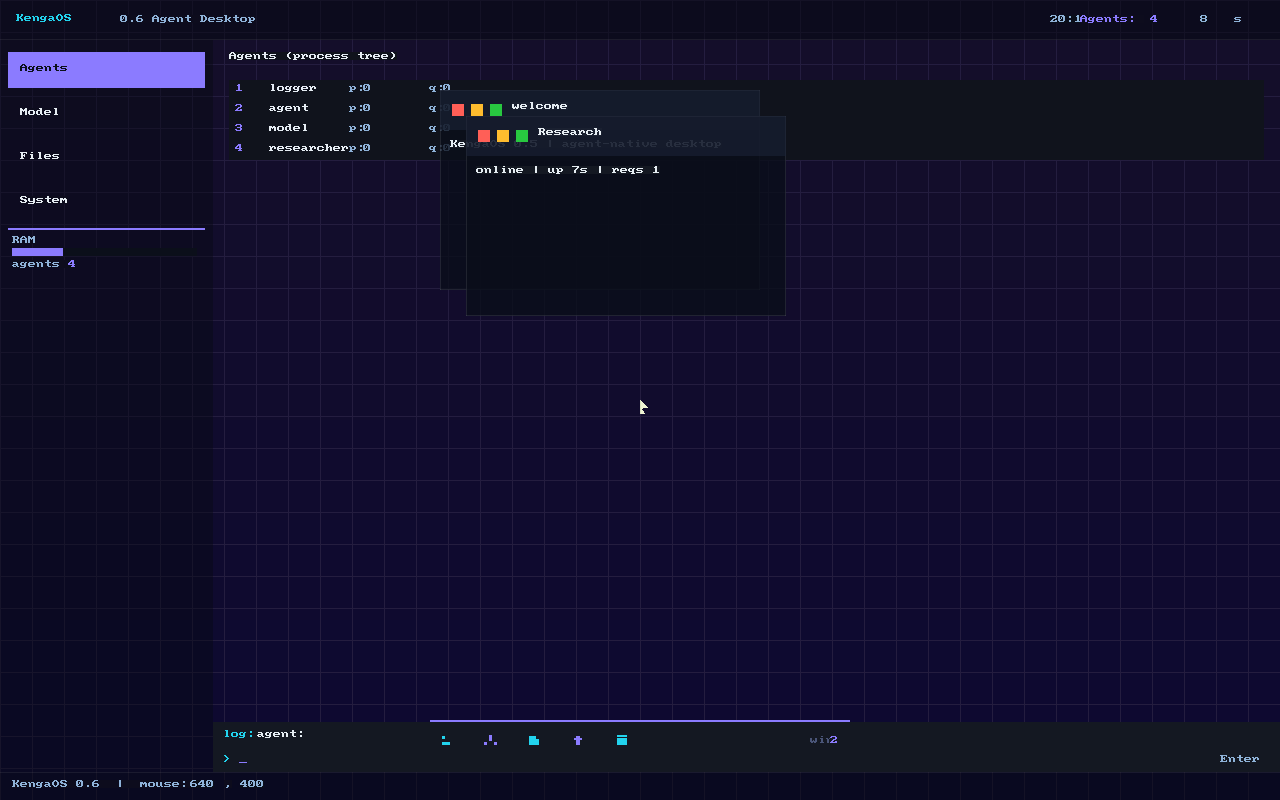
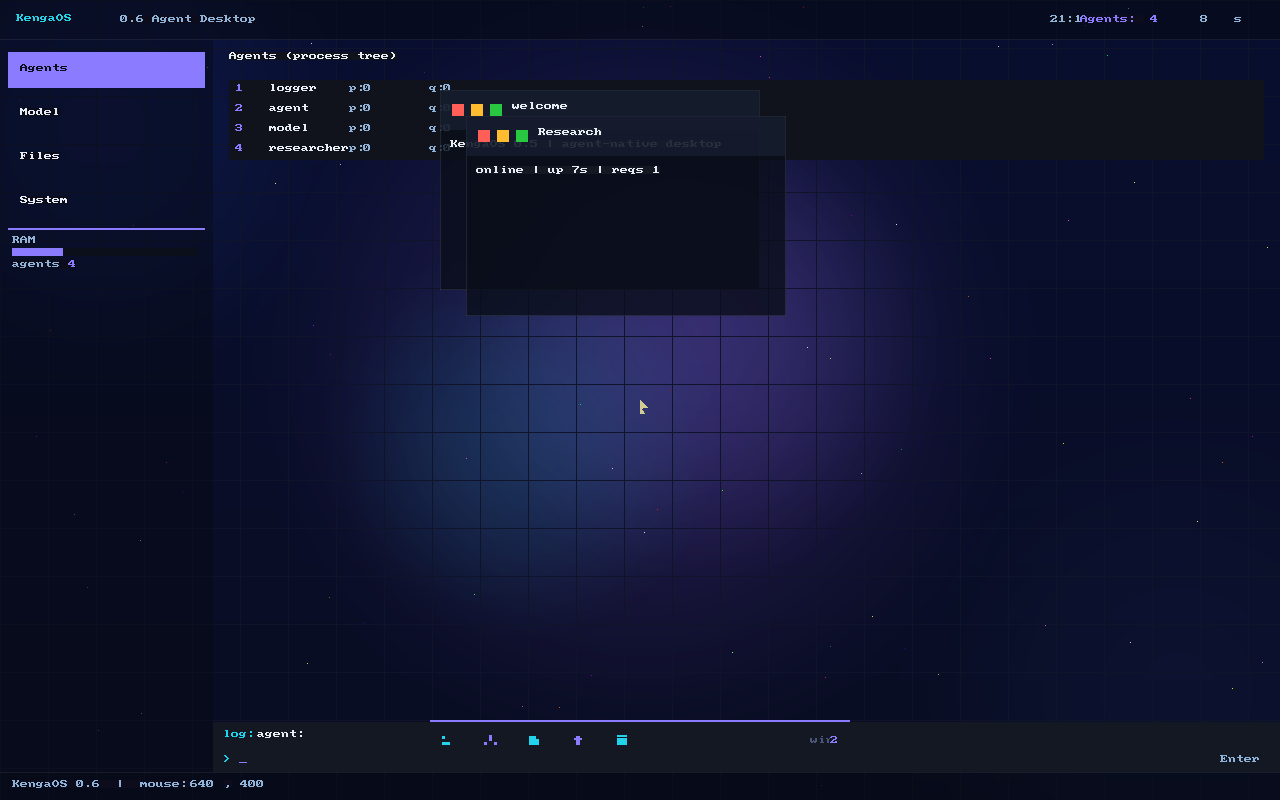
ui: nebula wallpaper (fb_glow), window shadows and focused glow border

Changed region(s): [[0.3125, 0.1875, 0.6875, 0.6875]]

diff --git a/kernel/kf_fb.c b/kernel/kf_fb.c
@@ -208,6 +208,43 @@ static int64_t dsqrti(int64_t n) {
     return x;
 }
 
+/* Radial glow: soft light falloff around (cx,cy), color c, radius rad,
+   maximum alpha amax at the center. Used for the nebula wallpaper and
+   focused-window halos. */
+int64_t k_fb_glow(int64_t cx, int64_t cy, int64_t rad, int64_t color, int64_t amax) {
+    if (!fb_ok || rad <= 0) return 0;
+    if (amax < 0) amax = 0;
+    if (amax > 255) amax = 255;
+    int64_t r2 = rad * rad;
+    int64_t x0 = cx - rad < 0 ? 0 : cx - rad;
+    int64_t y0 = cy - rad < 0 ? 0 : cy - rad;
+    int64_t x1 = cx + rad >= (int64_t)fb_w ? (int64_t)fb_w - 1 : cx + rad;
+    int64_t y1 = cy + rad >= (int64_t)fb_h ? (int64_t)fb_h - 1 : cy + rad;
+    uint32_t fg = (uint32_t)color;
+    uint32_t fr = (fg >> 16) & 0xff, fgc = (fg >> 8) & 0xff, fbc = fg & 0xff;
+    uintptr_t base = fb_cur();
+    for (int64_t y = y0; y <= y1; y++) {
+        volatile uint32_t* row = (volatile uint32_t*)(base + (uintptr_t)y * fb_pitch + (uintptr_t)x0 * 4);
+        int64_t dy = y - cy;
+        for (int64_t x = x0; x <= x1; x++, row++) {
+            int64_t dx = x - cx;
+            int64_t d2 = dx * dx + dy * dy;
+            if (d2 >= r2) continue;
+            /* quadratic falloff: t in 0..255 */
+            int64_t t = (r2 - d2) * 255 / r2;
+            int64_t a = amax * t * t / (255 * 255);
+            if (a <= 0) continue;
+            uint32_t bg = *row;
+            uint32_t ia = 255 - (uint32_t)a;
+            uint32_t r = (uint32_t)((fr * (uint32_t)a + ((bg >> 16) & 0xff) * ia) >> 8);
+            uint32_t g = (uint32_t)((fgc * (uint32_t)a + ((bg >> 8) & 0xff) * ia) >> 8);
+            uint32_t b = (uint32_t)((fbc * (uint32_t)a + (bg & 0xff) * ia) >> 8);
+            *row = (r << 16) | (g << 8) | b;
+        }
+    }
+    return 1;
+}
+
 /* Alpha-blend a solid color over the current framebuffer content.
    alpha: 0..255 (255 = fully opaque). Reads back the pixel, so it works
    on the back buffer too. */

diff --git a/kernel/kf_rt.h b/kernel/kf_rt.h
@@ -227,6 +227,7 @@ int64_t k_fb_end_frame(void);
 int64_t k_fb_blend_rect(int64_t x, int64_t y, int64_t w, int64_t h, int64_t color, int64_t alpha);
 int64_t k_fb_rrect(int64_t x, int64_t y, int64_t w, int64_t h, int64_t r, int64_t color);
 int64_t k_fb_grad_rect(int64_t x, int64_t y, int64_t w, int64_t h, int64_t c0, int64_t c1);
+int64_t k_fb_glow(int64_t cx, int64_t cy, int64_t rad, int64_t color, int64_t amax);
 
 /* Turn a numeric address into a C string pointer (for uart_puts on MMIO/tag
    strings living at raw addresses). */
